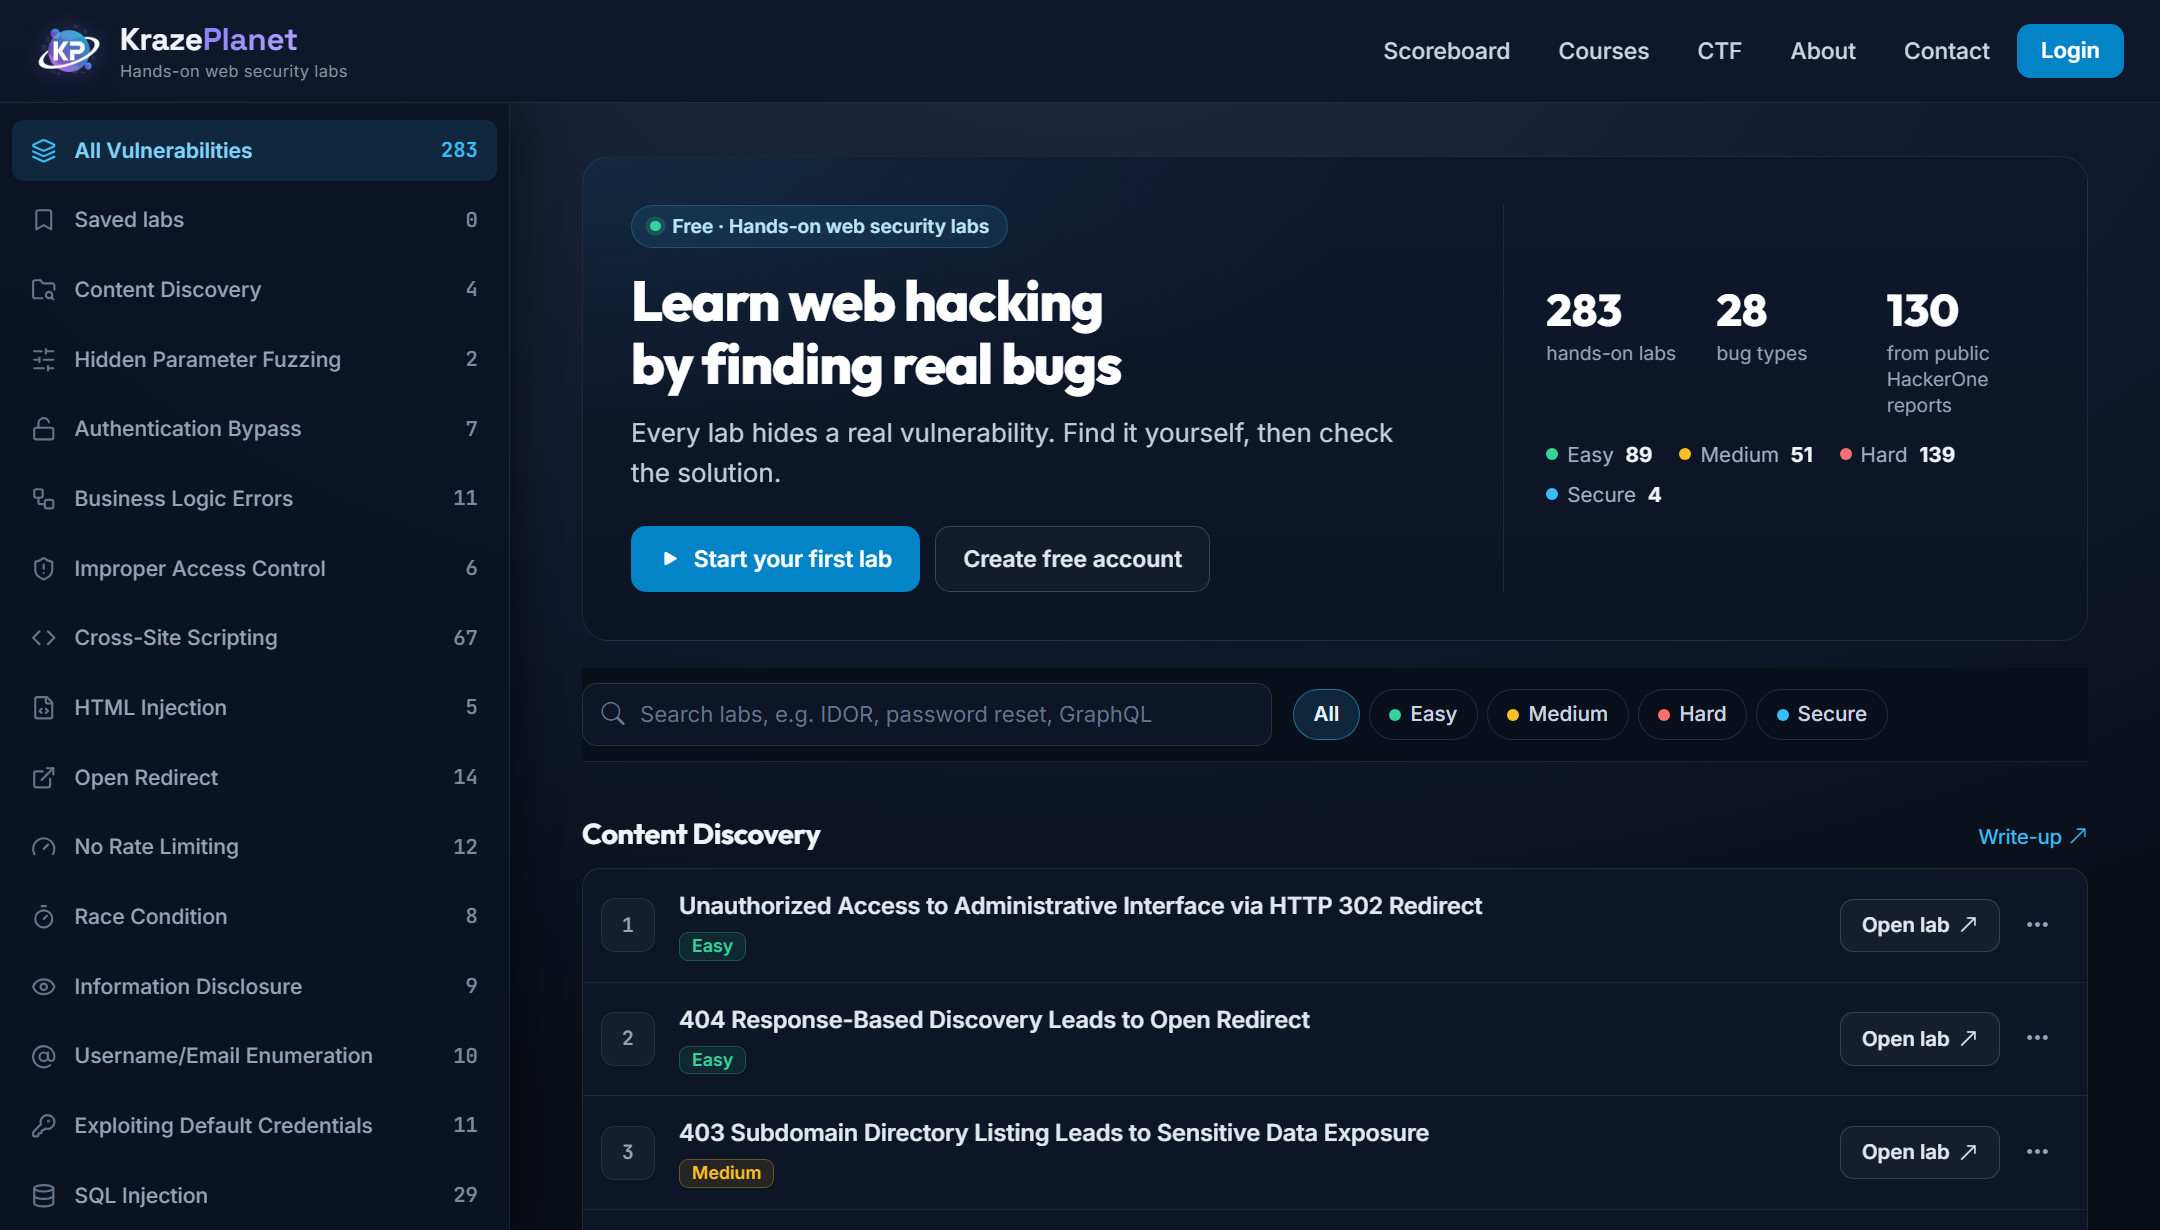
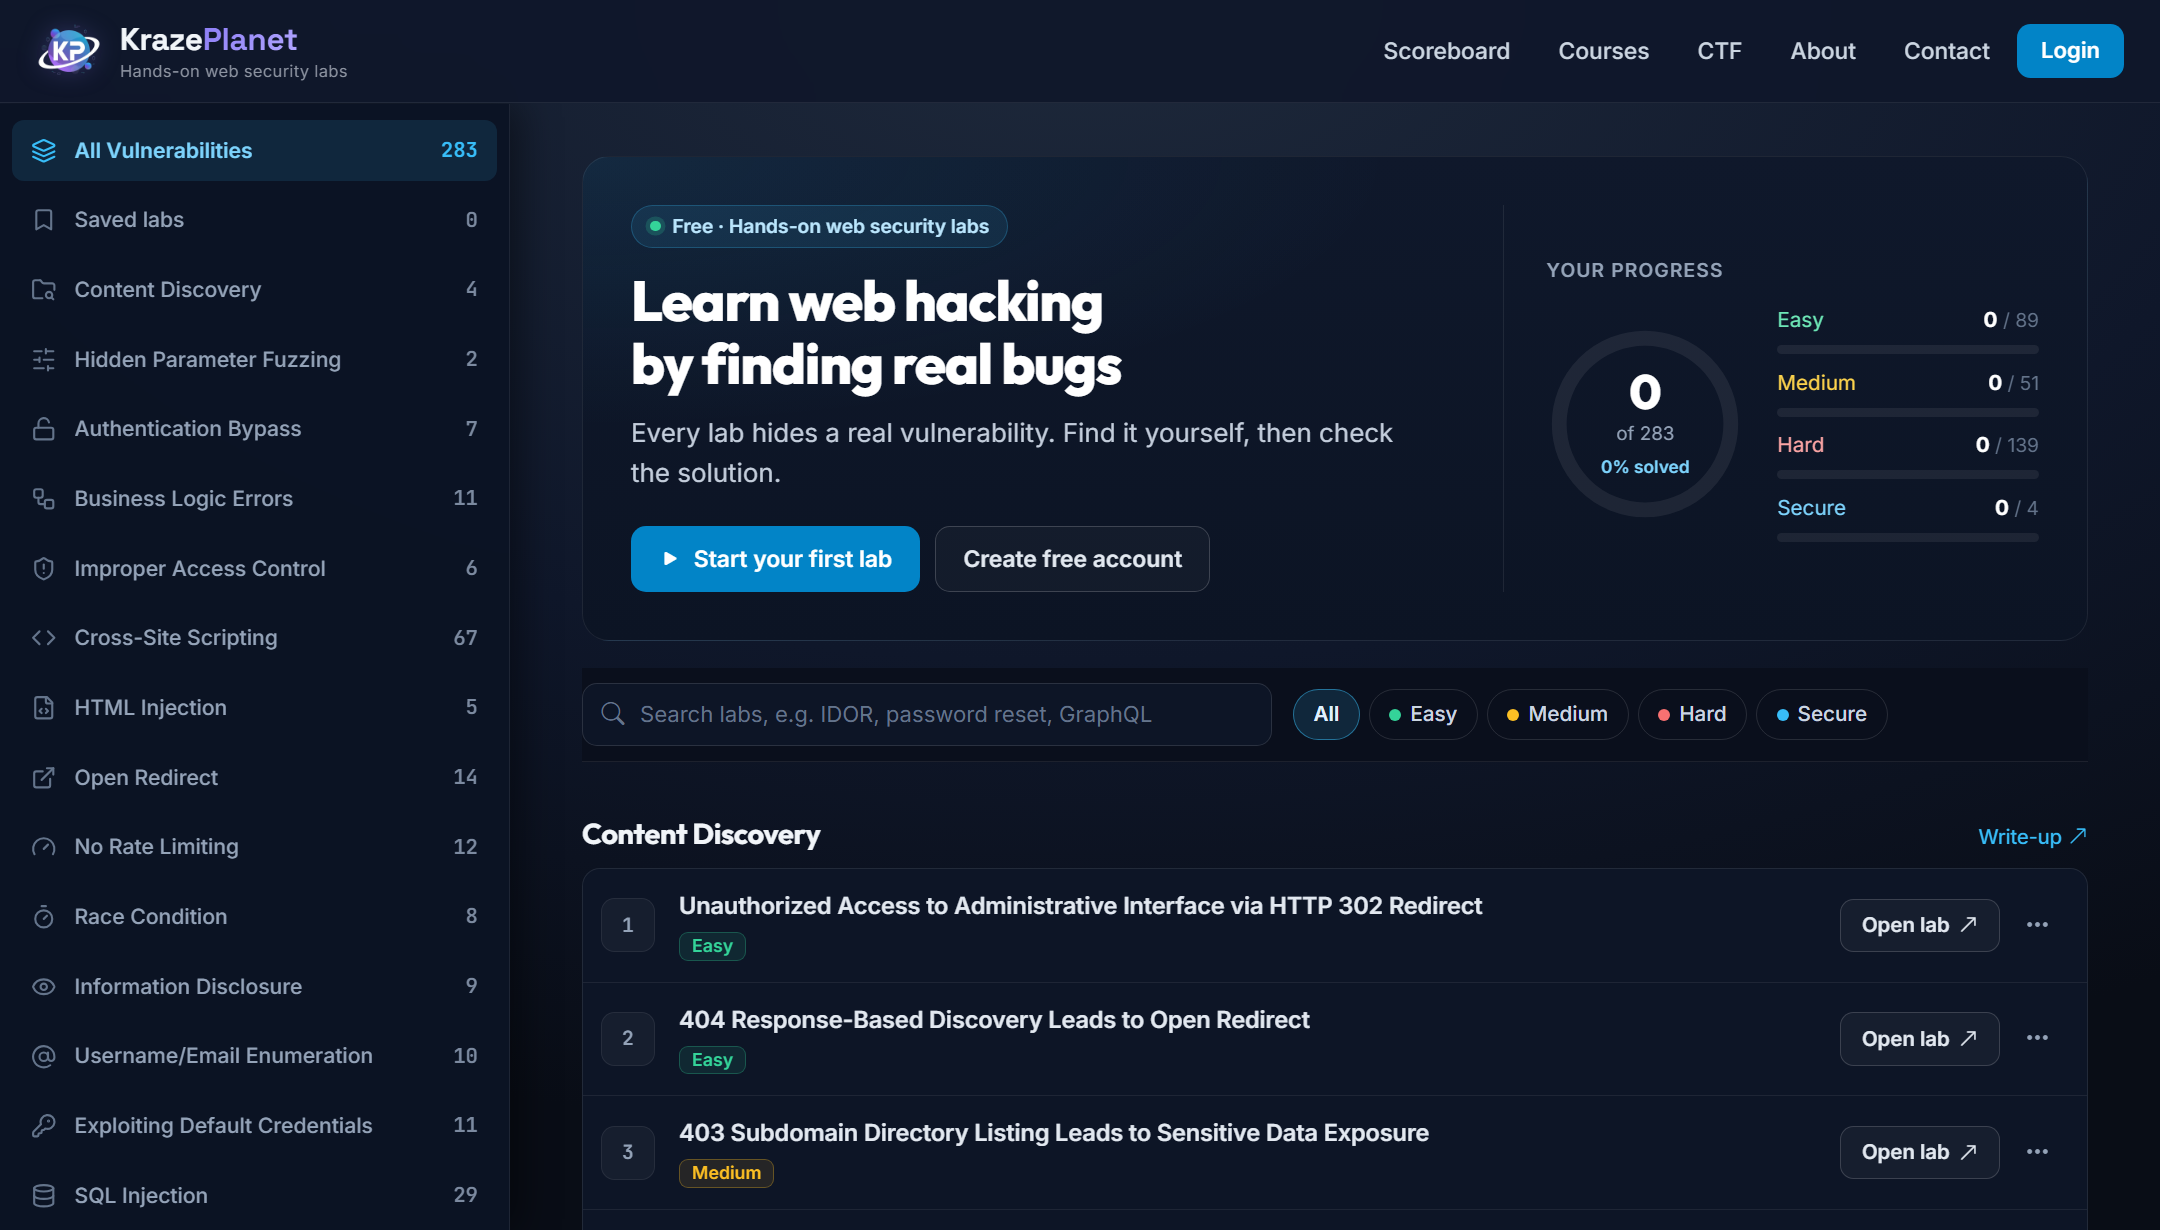
home page improved

Changed region(s): [[0.7134, 0.2163, 0.9306, 0.4016], [0.8375, 0.4016, 0.8685, 0.4325]]

diff --git a/index.php b/index.php
@@ -286,21 +286,17 @@ MD,
     .hp-diff.hard .hp-diff-bar span { background: #f87171; }
     .hp-diff.secure .hp-diff-top > span:first-child { color: #7dd3fc; }
     .hp-diff.secure .hp-diff-bar span { background: #38bdf8; }
-    @media (max-width: 400px) {
-      .hp-progress { gap: 16px; }
-      .hp-ring { width: 112px; height: 112px; }
-      .hp-ring-num { font-size: 1.7rem; }
-    }
-    .hp-split { display: flex; flex-wrap: wrap; gap: 6px 18px; font-size: 0.86rem; color: #a3b1c6; }
-    .hp-split strong { color: #f1f5f9; font-weight: 700; margin-left: 4px; }
+    /* Coloured dot in the Easy / Medium / Hard / Secure filter chips */
     .hp-dot { display: inline-block; width: 8px; height: 8px; border-radius: 50%; margin-right: 6px; vertical-align: 1px; }
     .hp-dot.easy { background: #34d399; }
     .hp-dot.medium { background: #fbbf24; }
     .hp-dot.hard { background: #f87171; }
     .hp-dot.secure { background: #38bdf8; }
-    .hp-stats { display: grid; grid-template-columns: repeat(3, 1fr); gap: 12px; }
-    .hp-num { font-family: var(--font-heading); font-size: 1.85rem; font-weight: 800; color: #ffffff; line-height: 1.1; }
-    .hp-cap { font-size: 0.8rem; color: #94a3b8; line-height: 1.35; margin-top: 4px; }
+    @media (max-width: 400px) {
+      .hp-progress { gap: 16px; }
+      .hp-ring { width: 112px; height: 112px; }
+      .hp-ring-num { font-size: 1.7rem; }
+    }
 
     /* ---- Toolbar: search + difficulty ---- */
     .lab-toolbar {
@@ -361,7 +357,6 @@ MD,
       .hero-title { font-size: 1.7rem; }
       .hero-subtitle { font-size: 0.96rem; }
       .hero-btn { flex: 1 1 auto; justify-content: center; }
-      .hp-num { font-size: 1.45rem; }
       .lt-search { max-width: none; flex-basis: 100%; }
       .lab-toolbar { position: static; }
     }
@@ -1142,15 +1137,13 @@ MD,
   <main class="main-content-layout">
 
 <?php
-  // Numbers for the hero: labs per difficulty and how many recreate a public HackerOne report.
+  // Numbers for the hero's progress panel: labs per difficulty.
   $diffTotals = ['easy' => 0, 'medium' => 0, 'hard' => 0, 'secure' => 0];
-  $h1Count = 0;
   foreach ($categories as $catLabs) {
       foreach ((array)$catLabs as $lab) {
           $d = strtolower((string)($lab['difficulty'] ?? ''));
           $d = $d === 'high' ? 'hard' : $d;
           if (isset($diffTotals[$d])) $diffTotals[$d]++;
-          if (preg_match('~hackerone\.com/reports/\d+~', (string)($lab['report'] ?? ''))) $h1Count++;
       }
   }
   $signedIn = krazeLoggedIn();
@@ -1192,7 +1185,7 @@ MD,
       </div>
 
       <aside class="hero-panel">
-<?php if ($signedIn): ?>
+        <!-- Same for everyone: visitors see 0% (nothing solved yet) -->
         <div class="hp-label">Your progress</div>
         <div class="hp-progress">
           <!-- Ring: solved / all labs -->
@@ -1223,19 +1216,6 @@ MD,
 <?php endforeach; ?>
           </div>
         </div>
-<?php else: ?>
-        <div class="hp-stats">
-          <div><div class="hp-num"><?= (int)$labTotal ?></div><div class="hp-cap">hands-on labs</div></div>
-          <div><div class="hp-num"><?= count($categories) ?></div><div class="hp-cap">bug types</div></div>
-          <div><div class="hp-num"><?= (int)$h1Count ?></div><div class="hp-cap">from public HackerOne reports</div></div>
-        </div>
-        <div class="hp-split">
-          <div><span class="hp-dot easy"></span>Easy <strong><?= $diffTotals['easy'] ?></strong></div>
-          <div><span class="hp-dot medium"></span>Medium <strong><?= $diffTotals['medium'] ?></strong></div>
-          <div><span class="hp-dot hard"></span>Hard <strong><?= $diffTotals['hard'] ?></strong></div>
-          <div><span class="hp-dot secure"></span>Secure <strong><?= $diffTotals['secure'] ?></strong></div>
-        </div>
-<?php endif; ?>
       </aside>
     </section>
 
